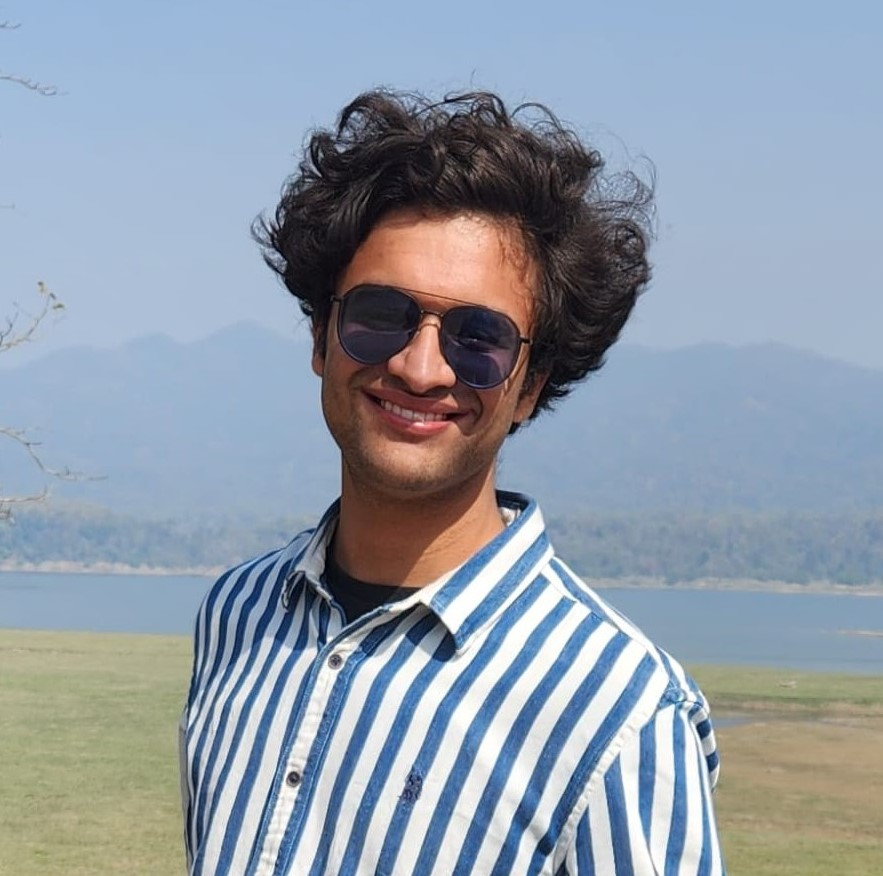
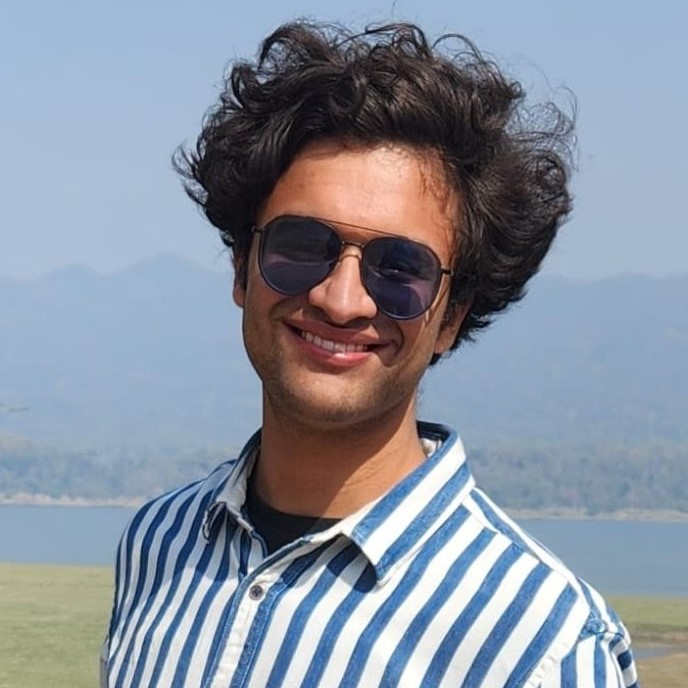
images fixed

diff --git a/team.html b/team.html
@@ -221,8 +221,9 @@
                 </div>
                 <div class="row g-4">
                     <div class="col-lg-3 col-md-6 wow fadeInUp" data-wow-delay="0.1s">
+
                         <div class="team-item rounded p-4 bg-white">
-                            <img class="img-fluid rounded mb-4" src="img/Arush.jpg" alt="" style="height: 210px; width: 400px;">
+                            <img class="img-fluid rounded mb-4" src="img/Arush.jpg" alt="" >
                             <h5 class="text-dark">Arush Upadhyaya</h5>
                             <p class="text-dark">Junior Undergraduate in the Department of CSE</p>
                             <br>
@@ -239,7 +240,7 @@
     
                     <div class="col-lg-3 col-md-6 wow fadeInUp" data-wow-delay="0.3s">
                         <div class="team-item rounded p-4 bg-white">
-                            <img class="img-fluid rounded mb-4" src="img/Ishan.jpg" alt="" style="height: 210px; width: 400px;">
+                            <img class="img-fluid rounded mb-4" src="img/Ishan.jpeg" alt="" >
                             <h5 class="text-dark">Ishan Prakhar</h5>
                             <p class="text-dark">Junior Undergraduate in the Department of MSE</p>
                             <br>
@@ -256,7 +257,7 @@
     
                     <div class="col-lg-3 col-md-6 wow fadeInUp" data-wow-delay="0.3s">
                         <div class="team-item rounded p-4 bg-white">
-                            <img class="img-fluid rounded mb-4" src="img/Sharah.jpg" alt="" style="height: 210px; width: 400px;">
+                            <img class="img-fluid rounded mb-4" src="img/Sharah.jpg" alt="" >
                             <h5 class="text-dark">Sharah P S</h5>
                             <p class="text-dark">Junior Undergraduate in the Department of ME</p>
                             <br>
@@ -273,7 +274,7 @@
     
                     <div class="col-lg-3 col-md-6 wow fadeInUp" data-wow-delay="0.5s">
                         <div class="team-item rounded p-4 bg-white">
-                            <img class="img-fluid rounded mb-4" src="img/Trijal.jpg" alt="" style="height: 210px; width: 400px;">
+                            <img class="img-fluid rounded mb-4" src="img/Trijal.jpg" alt="" >
                             <h5 class="text-dark">Trijal Srivastava</h5>
                             <p class="text-dark">Junior Undergraduate in the Department of EE</p>
                             <br>
